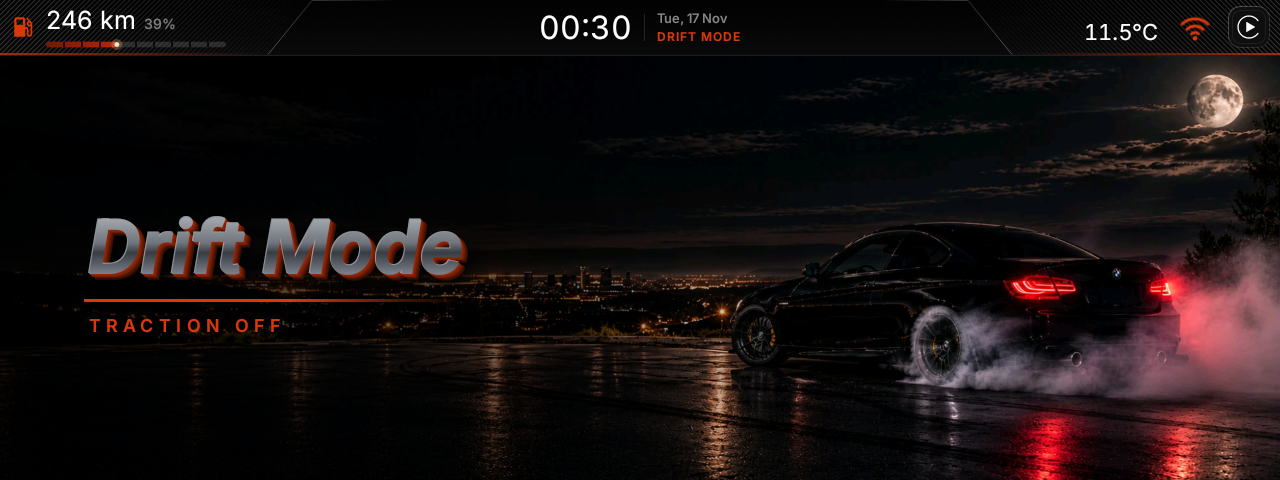
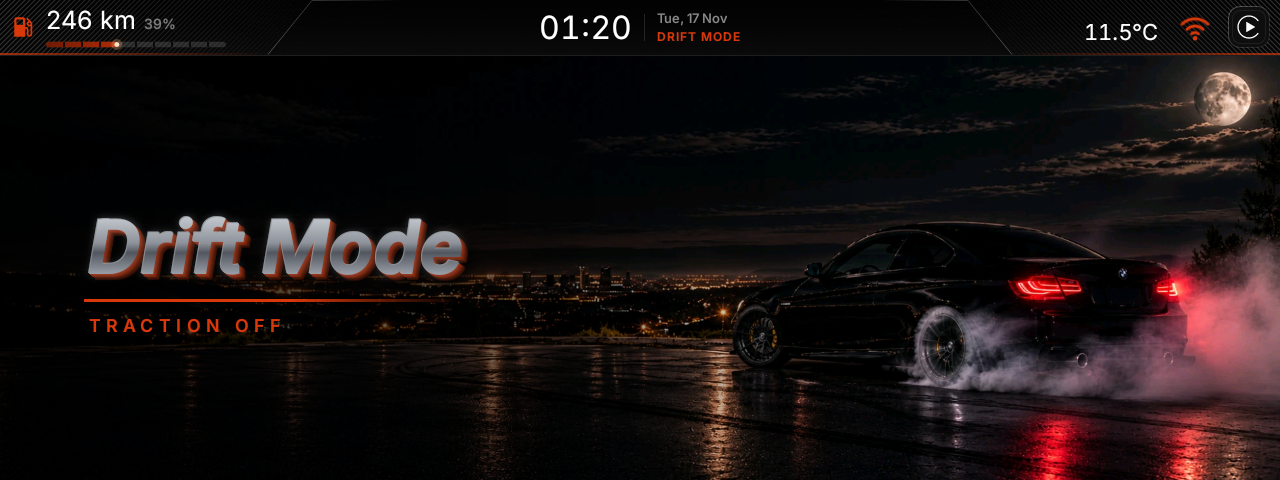
Drift Mode scene 4.5 s (Normal stays 2.5 s); full-scene title gray a little lighter with a soft glow

diff --git a/app/src/main/java/ro/e92/launcher/ui/screens/ModeScreen.kt b/app/src/main/java/ro/e92/launcher/ui/screens/ModeScreen.kt
@@ -62,7 +62,8 @@ class ModeScreen(host: ScreenHost, private val scene: ModeScene) : Screen(host) 
             context,
             context.getString(titleRes(scene)),
             if (subtitle != 0) context.getString(subtitle) else null,
-            photo
+            photo,
+            if (scene == ModeScene.DRIFT) DRIFT_TOTAL_MS else ModeBannerView.TOTAL_MS
         ) { dismiss() }.apply {
             layoutParams = ViewGroup.LayoutParams(
                 ViewGroup.LayoutParams.MATCH_PARENT, ViewGroup.LayoutParams.MATCH_PARENT
@@ -94,6 +95,10 @@ class ModeScreen(host: ScreenHost, private val scene: ModeScene) : Screen(host) 
         host.pop()
     }
 
+    private companion object {
+        const val DRIFT_TOTAL_MS = 4_500f
+    }
+
     private fun titleRes(scene: ModeScene) = when (scene) {
         ModeScene.DRIFT -> R.string.mode_drift
         ModeScene.NORMAL -> R.string.mode_normal
@@ -114,6 +119,8 @@ class ModeBannerView(
     private val title: String,
     private val subtitle: String?,
     photoRes: Int,
+    /** Cât stă pe ecran: Drift Mode 4,5 s, Normal Mode 2,5 s (cerut 2026-11-17). */
+    private val total: Float,
     private val onDone: () -> Unit
 ) : View(context) {
 
@@ -194,13 +201,13 @@ class ModeBannerView(
         val h = height.toFloat()
         if (w == 0f || h == 0f) return
         val now = if (startedAt == 0L) 0f else (SystemClock.uptimeMillis() - startedAt).toFloat()
-        val all = ease(now, 0f, FADE_IN_MS) * (1f - ease(now, TOTAL_MS - EXIT_MS, EXIT_MS))
+        val all = ease(now, 0f, FADE_IN_MS) * (1f - ease(now, total - EXIT_MS, EXIT_MS))
 
         // ---- fotografia: se așază încet, de la puțin mărită ----
         canvas.drawColor(Color.argb((255 * all).toInt(), 0, 0, 0))
         photo?.let { bmp ->
             val scale = maxOf(w / bmp.width, h / bmp.height) *
-                (PHOTO_START_SCALE - (PHOTO_START_SCALE - 1f) * ease(now, 0f, TOTAL_MS))
+                (PHOTO_START_SCALE - (PHOTO_START_SCALE - 1f) * ease(now, 0f, total))
             val pw = bmp.width * scale
             val ph = bmp.height * scale
             photoRect.set((w - pw) / 2f, (h - ph) / 2f, (w + pw) / 2f, (h + ph) / 2f)
@@ -265,8 +272,8 @@ class ModeBannerView(
                     0f, ty - big * 0.74f, 0f, ty,
                     // Hyper gray: gri metalic închis, ca jantele din fotografie.
                     intArrayOf(
-                        Color.rgb(158, 162, 169), Color.rgb(112, 117, 125), Color.rgb(56, 60, 67),
-                        Color.rgb(86, 91, 99), Color.rgb(124, 129, 137)
+                        Color.rgb(188, 192, 199), Color.rgb(142, 147, 155), Color.rgb(82, 87, 95),
+                        Color.rgb(114, 119, 127), Color.rgb(154, 159, 167)
                     ),
                     floatArrayOf(0f, 0.42f, 0.6f, 0.78f, 1f), Shader.TileMode.CLAMP
                 )
@@ -276,7 +283,10 @@ class ModeBannerView(
             rimPaint.alpha = (alpha * 0.75f).toInt()
             canvas.drawText(title, x - rim, ty - rim, rimPaint)
             titlePaint.alpha = alpha
+            // O strălucire slabă în jurul literelor, ca griul să nu se piardă pe fundalul închis.
+            titlePaint.setShadowLayer(h * 0.022f, 0f, 0f, Color.argb((alpha * 0.4f).toInt(), 200, 206, 216))
             canvas.drawText(title, x, ty, titlePaint)
+            titlePaint.clearShadowLayer()
         }
         if (subText != null && subIn > 0f) {
             subPaint.alpha = (255 * subIn * all).toInt()
@@ -309,7 +319,7 @@ class ModeBannerView(
         }
 
         if (!running) return
-        if (now >= TOTAL_MS) {
+        if (now >= total) {
             if (!finished) {
                 finished = true
                 running = false
@@ -807,7 +817,6 @@ class ModeCardView(
     }
 
     private companion object {
-        const val TOTAL_MS = ModeBannerView.TOTAL_MS
         const val SPORT_TOTAL_MS = 5_000f
         const val DRIVE_TOTAL_MS = 3_500f
         const val ENTER_MS = 380f
